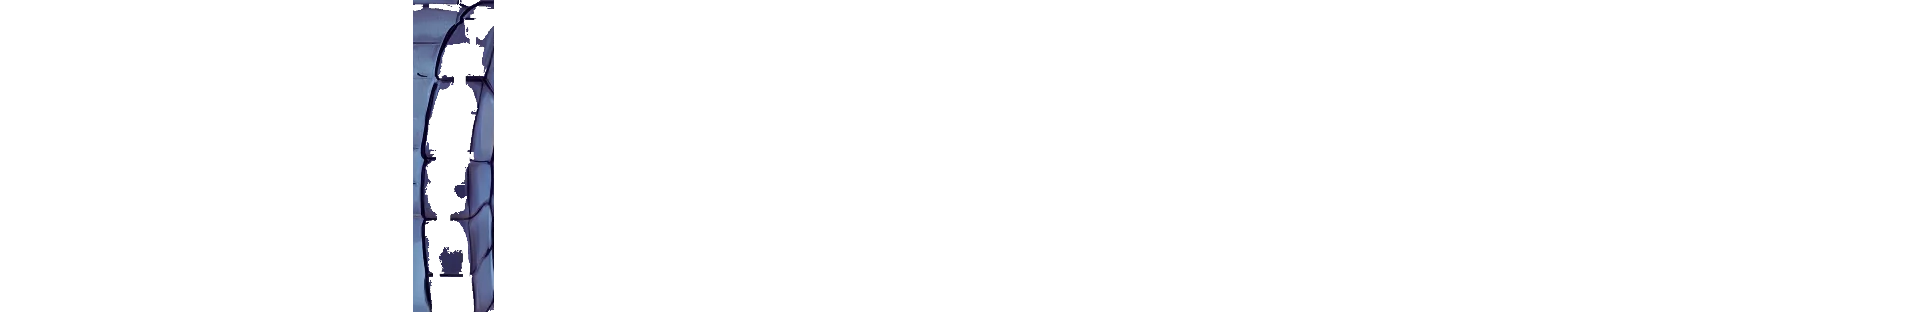
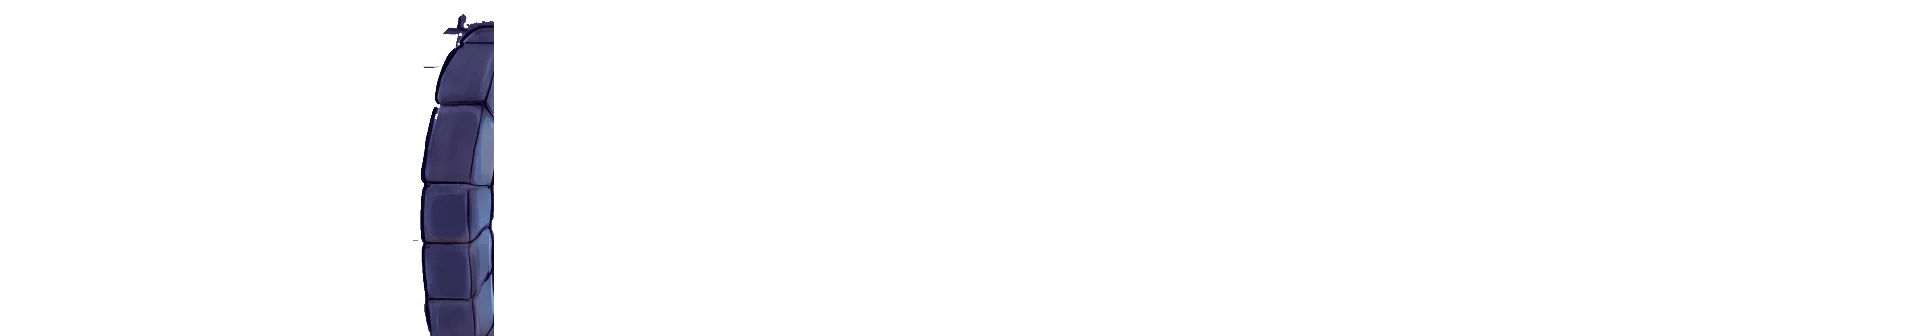
34.3: Cut the storeroom's arch and torches from Gemini's magenta, and open the way down's double door a quarter against its jambs
Five Gemini images (3 and 2 retries, 95 of the chapter's 100):

- storeroom-arch-torches-marked.md: the corridor's arch and the two torches by the store
  door flat magenta. The arch's band and its near jamb are the arch's mask (corridor_arch,
  its box from 4.5 down, row 7, under): a figure on (4, 7) is behind it (77 % covered).
  The plan's "store arch" is this arch, where the owner saw figures over it; the door's own
  arch keeps its mask. The far jamb, right of x 5.15, stays the ground's, so that the
  wizard on (5, 7), in front of its foot, is not drawn behind it.
- storeroom-torches-marked.md (retry): the first edit marked each torch's bracket and
  handle but not its flame; this one marked the flames. Each torch (torch_left,
  torch_right, row 13, under) is the union of the two differences: export_scene takes a
  list of pictures for a static thing's difference, each a part, with a test. A flame
  has no dark outline, so the sweep takes it for ground let in (fringe at 11, 12 and
  11, 13): `kept` names the two torches' boxes. The figure on (11, 13) is behind the
  right torch; (8, 13) is a wall since 34.1.
- way-down-open-quarter.md and -2 (retry), each an edit of the whole base (D161): the
  first left the left leaf half open and laid the right one over its jamb; the second
  turns both a quarter, mirror images, each against the inner side of its own jamb, the
  arch whole between them, and is the one cut. Neither could end the leaves' feet above
[…]

Changed region(s): [[0.1875, 0.0, 0.2812, 1.0]]

diff --git a/app/e2e/levels.spec.ts b/app/e2e/levels.spec.ts
@@ -104,12 +104,11 @@ test.describe('past the teacher', () => {
     await page.keyboard.press('ControlOrMeta+A');
     await page.keyboard.insertText('wizard.wait(3)');
     await page.locator('#run').click();
-    await expect(scene(page)).toHaveAttribute('data-actors', /dask:3,7,right/, {
-      timeout: 10_000,
-    });
-    await expect(scene(page)).toHaveAttribute('data-actors', /dask:5,7,right/, {
-      timeout: 10_000,
-    });
+    // Each tick shows for a moment: looked at often, so that none is missed however
+    // long the run takes to start.
+    const actors = () => scene(page).getAttribute('data-actors');
+    await expect.poll(actors, { intervals: [50], timeout: 10_000 }).toMatch(/dask:3,7,right/);
+    await expect.poll(actors, { intervals: [50], timeout: 10_000 }).toMatch(/dask:5,7,right/);
   });
 
   test('walking straight in gets the wizard caught', async ({ page }) => {

diff --git a/tools/art/export_scene.py b/tools/art/export_scene.py
@@ -422,7 +422,9 @@ def static_alpha(
     on its outline (D93): where Gemini painted it flat magenta in a picture of the
     scene (`"mask": "marked"`, the picture `marked`, among the edits), its holes, the
     lines Gemini left inside it, filled, unless it is `open_work`; the box less that
-    magenta (`"unmarked"`); a polygon in cells (`"polygon"`, less its
+    magenta (`"unmarked"`); where a picture with it gone or painted flat magenta differs
+    from the painting (`"difference"`, D148), or several such pictures, each of a part;
+    a polygon in cells (`"polygon"`, less its
     `holes`, with its `fixed` parts, and only its own line when `lined`); what
     is pale there and its outline (`"pale"`); or the whole box (`"box"`), not
     moved."""
@@ -430,9 +432,14 @@ def static_alpha(
     if thing["mask"] == "box":
         return inside.astype(np.float32)
     if thing["mask"] == "difference":
-        # What a figure walks behind, by the picture with it gone (D148).
-        gone = np.array(Image.open(edits / thing["picture"]).convert("RGB"))
-        mask = difference_mask(gone, painting, box, thing.get("diff"))
+        # What a figure walks behind, by the picture with it gone or marked (D148); a
+        # thing whose parts two edits marked, each one part, a torch's bracket and its
+        # flame, is the union of their differences.
+        pictures = thing["picture"] if isinstance(thing["picture"], list) else [thing["picture"]]
+        mask = np.zeros(painting.shape[:2], dtype=bool)
+        for picture in pictures:
+            gone = np.array(Image.open(edits / picture).convert("RGB"))
+            mask |= difference_mask(gone, painting, box, thing.get("diff"))
         # Gemini's magenta ends inside the thing's outline, which is the thing's too (D93).
         if (thing.get("diff") or {}).get("rim"):
             mask = image_first.rimmed(mask, painting, cell, image_first.thresholds(th)) & inside

diff --git a/tests/tools/test_art.py b/tests/tools/test_art.py
@@ -1674,6 +1674,20 @@ def test_trace_makes_a_static_thing_s_mask_from_the_picture_with_it_gone(tmp_pat
     assert alpha[60:140, 70:130].all() and not alpha[:45].any()
 
 
+def test_a_thing_whose_parts_two_edits_marked_is_the_union_of_their_differences(tmp_path):
+    # A torch: one edit marks its bracket, the other its flame (D148).
+    painting = np.full((200, 200, 3), 120, dtype=np.uint8)
+    bracket, flame = painting.copy(), painting.copy()
+    bracket[100:180, 90:110] = (255, 0, 255)
+    flame[30:100, 80:120] = (255, 0, 255)
+    Image.fromarray(bracket).save(tmp_path / "bracket.png")
+    Image.fromarray(flame).save(tmp_path / "flame.png")
+    torch = {"mask": "difference", "picture": ["bracket.png", "flame.png"], "diff": {}}
+    alpha = export_scene.static_alpha(painting, (0, 0, 200, 200), torch, 200, None, None, tmp_path)
+    assert alpha[110:170, 95:105].all() and alpha[40:90, 90:110].all()
+    assert not alpha[:20].any() and not alpha[:, :60].any()
+
+
 def test_a_state_cut_by_difference_is_read_by_the_export(tmp_path, monkeypatch):
     base = np.full((200, 200, 3), 120, dtype=np.uint8)
     shown = a_leaf_on(base)

diff --git a/tools/art/prompts/way-down-open-quarter.md b/tools/art/prompts/way-down-open-quarter.md
@@ -1,0 +1,13 @@
+---
+candidate: game-way-down
+service: gemini
+model: gemini-3-pro-image
+image: ["art/raw/game-way-down/way-down-base.png", "art/raw/game-way-down/way-down-whole.png"]
+aspect_ratio: 4:3
+image_size: 4K
+---
+Edit the first picture, the whole of it. It is a finished painting, seen from above at an angle, of a stone corridor of a castle at night running up and down the picture, and a third of the way down a stone wall crossing it, seen from the front, with an open arched doorway in a stone arch. The arch's stones run down both sides of the doorway as its two jambs, to the floor. Below that wall the corridor goes on between two side walls, which begin right below the jambs. The second picture is the same painting with the doorway closed by its double wooden door; use it only to see what the two leaves look like.
+
+Make one change only to the first picture: paint in the doorway its two leaves, opened wide, each turned a quarter turn toward us on its hinges, as far as it goes without touching the wall. They are the same two leaves as in the second picture, the same planks, the same iron hinges and the same rings, at their full height, each with its part of the arched top. Each leaf hangs on the inner edge of its own jamb and now stands upright against the inner side of that jamb, almost edge-on to us: the left leaf along the left side of the opening, the right leaf along the right side. Seen from where we look, each leaf is a tall narrow strip of planks, strongly foreshortened, with its free edge a little nearer to us and a little lower than its hinged edge. Its foot stands on the floor inside the doorway, both its bottom corners drawn, above the line where the doorway's floor meets the paving in front of the wall: no part of a leaf reaches below that line, onto the floor in front of the wall. Both leaves lie wholly inside the doorway's opening, between the inner edges of the two jambs: the arch's stones and both jambs stay whole and in view, exactly as in the first picture, and no leaf lies over them or over the side walls below. Between the two leaves almost the whole width of the doorway is open, and through it we see the corridor's floor beyond the wall, running out without a break to the floor in front of it. A soft shadow of each leaf lies on the doorway's floor beside it.
+
+Everything else stays exactly as it is, pixel for pixel: the stone arch and its jambs, every wall, stone, paving stone, banner, torch and flame, the other arches, every room and its furniture, in the same place, at the same size, in the same colours and the same light, in the same painted cartoon style. Do not move, redraw, sharpen or restyle anything. No grid, no text, no people.

diff --git a/tools/art/prompts/way-down-open-quarter-2.md b/tools/art/prompts/way-down-open-quarter-2.md
@@ -1,0 +1,15 @@
+---
+candidate: game-way-down
+service: gemini
+model: gemini-3-pro-image
+image: ["art/raw/game-way-down/way-down-base.png", "art/raw/game-way-down/way-down-whole.png"]
+aspect_ratio: 4:3
+image_size: 4K
+---
+Edit the first picture, the whole of it. It is a finished painting, seen from above at an angle, of a stone corridor of a castle at night running up and down the picture, and a third of the way down a stone wall crossing it, seen from the front, with an open arched doorway in a stone arch. The arch's stones run down both sides of the doorway as its two jambs, to their feet on the floor. Below that wall the corridor goes on between two side walls, which begin right below the jambs. The second picture is the same painting with the doorway closed by its double wooden door; use it only to see what the two leaves look like.
+
+Make one change only to the first picture: the double door stands wide open. Paint its two leaves, the same two leaves as in the second picture, the same planks, the same iron hinges and the same rings, at their full height. Each leaf has turned a quarter turn on its hinges, so that it stands at a right angle to the wall, flat against the inner side of its own jamb; the two leaves are mirror images of each other. Seen from where we look, each leaf is a tall, very narrow strip of planks, no wider than the jamb beside it, standing just inside the opening: the left leaf against the left jamb, the right leaf against the right jamb.
+
+Both leaves stand inside the doorway, on the floor seen through the opening. The foot of each leaf is level with the feet of the jambs, where the jamb stones end at the bottom of the doorway: nothing of a leaf comes lower than the jambs' feet, and nothing of a leaf comes out onto the paving in front of the wall. Nothing of a leaf lies over the jamb stones or the arch's stones, which stay whole and in view exactly as in the first picture. Between the two narrow leaves the whole doorway is open, and through it we see the corridor's floor beyond the wall, running out without a break to the floor in front of it.
+
+Everything else stays exactly as it is, pixel for pixel: the stone arch and its jambs, every wall, stone, paving stone, banner, torch and flame, the other arches, every room and its furniture, in the same place, at the same size, in the same colours and the same light, in the same painted cartoon style. Do not move, redraw, sharpen or restyle anything. No grid, no text, no people.

diff --git a/tools/art/prompts/dormitory-front-door-open-whole.md b/tools/art/prompts/dormitory-front-door-open-whole.md
@@ -1,0 +1,15 @@
+---
+candidate: game-dormitory
+service: gemini
+model: gemini-3-pro-image
+image: art/raw/game-dormitory/dormitory-walls.png
+aspect_ratio: 4:3
+image_size: 4K
+---
+Edit this picture, the whole of it. It is a finished painting, seen from above at an angle, of the first-year dormitory of a castle at night: the common room's wooden floor of long narrow planks running up and down the picture, the beds and the furniture, and at the bottom the room's front wall, seen from the front, with a closed wooden door in a stone arch, and the stone corridor running in front of that wall.
+
+Make one change only: the door in the stone arch of the front wall stands open. Its leaf, the same wooden leaf with the same two black iron strap hinges and the same round ring, at its full height, has swung toward us on its hinges on the left jamb, and stands out from the front wall to the left of the arch: seen foreshortened in the same view from above, its hinged edge on the left jamb, its free edge nearer to us and lower, its foot on the corridor's paving with both its bottom corners drawn, and a soft shadow on the wall and the paving.
+
+Through the open doorway we see the common room's own floor, the floor just behind the front wall: the same long narrow planks as the room's floor seen above the front wall, of the same width, in the same dark warm brown and the same dim light, each plank's line through the doorway continuing a plank's line of the room's floor above the wall, darker under the arch. They run down without a break to the doorway's foot, where they meet the corridor's paving at the line of the wall's foot. The doorway's floor is the room's floor seen through it, not lit by the corridor's torches and not lighter than the room. The stone arch and its jambs stay exactly as they are.
+
+Everything else stays exactly as it is, pixel for pixel: every wall, plank, bed, quilt, chest, candle and flame, torch, window and the sky, the corridor's paving, in the same place, at the same size, in the same colours and the same light, in the same painted cartoon style. Do not move, redraw, sharpen or restyle anything. No grid, no text, no people.

diff --git a/tools/art/prompts/storeroom-arch-torches-marked.md b/tools/art/prompts/storeroom-arch-torches-marked.md
@@ -1,0 +1,19 @@
+---
+candidate: game-storeroom
+service: gemini
+model: gemini-3-pro-image
+image: art/raw/game-storeroom/storeroom-base.png
+aspect_ratio: 4:3
+image_size: 4K
+---
+Edit this picture, a finished painting, seen from above at an angle, of a castle at night: a dark storeroom with a torch-lit corridor coming in from the left through a stone arch, and at its bottom a stone wall seen from the front with an open arched doorway, a burning torch on the wall at each side of that doorway.
+
+Make one change only: paint three things flat magenta, pure bright magenta (red 255, green 0, blue 255), each whole, exactly to its edge, with no shading, no lines and no texture inside the magenta:
+
+- the stone arch at the left of the storeroom, where the corridor comes in: all its arched stones over the opening and both its jambs down to their feet, the band of stones a figure walking through the opening passes under;
+- the torch on the wall to the left of the doorway in the bottom wall: its iron bracket, its cup and its flame;
+- the torch on the wall to the right of that doorway: its iron bracket, its cup and its flame.
+
+The floor seen through the arch's opening is not part of the arch and stays as it is. The doorway's own arch, its door and the glow of the torches on the wall stay as they are.
+
+Redraw nothing. Everything else stays exactly as it is, pixel for pixel: the openings, the walls, every other stone and flagstone, every crate, barrel, cobweb, window, the crack in the right wall, every room and its furniture. No grid, no text, no people.

diff --git a/tools/art/prompts/storeroom-torches-marked.md b/tools/art/prompts/storeroom-torches-marked.md
@@ -1,0 +1,13 @@
+---
+candidate: game-storeroom
+service: gemini
+model: gemini-3-pro-image
+image: art/raw/game-storeroom/storeroom-base.png
+aspect_ratio: 4:3
+image_size: 4K
+---
+Edit this picture, a finished painting, seen from above at an angle, of a castle at night: a dark storeroom, and at its bottom a stone wall seen from the front with an open arched doorway, a burning torch on the wall at each side of that doorway.
+
+Make one change only: paint those two torches flat magenta, pure bright magenta (red 255, green 0, blue 255), each torch whole, from the tip of its flame down to the foot of its bracket: the flame itself, all its tongues of fire and its bright core, the cup the flame burns in, the torch's wooden handle and the iron bracket that holds it to the wall. Each torch is one solid magenta shape, exactly to its edge, with no shading, no lines and no texture inside the magenta. The warm glow the flames throw on the wall round them is not part of the torches and stays as it is.
+
+Redraw nothing. Everything else stays exactly as it is, pixel for pixel: the doorway and its arch, the walls and their stones, every crate, barrel, cobweb, window, every room and its furniture. No grid, no text, no people.

diff --git a/content/art/scenes/the-storeroom/SOURCE.md b/content/art/scenes/the-storeroom/SOURCE.md
@@ -8,5 +8,8 @@ later, like the rest of it.
   (`game-storeroom-nogrid.md`), the round of the castle painted
   (`game-storeroom-voids.md`), the hole in the floor (`game-storeroom-hole.md`).
 - Its base is Gemini's edit without the door (`storeroom-base.md`); the door open is its
-  edit of the base (`storeroom-open.md`), and each leaf the difference (D148). So are the
-  arches, from `storeroom-gone.md`.
+  edit of the base (`storeroom-open.md`), and each leaf the difference (D148). So is the
+  door's arch, from `storeroom-gone.md`; the arch where the corridor comes in and the two
+  torches by the door, from the edits in which Gemini painted them flat magenta
+  (`storeroom-arch-torches-marked.md`, and `storeroom-torches-marked.md` for the
+  torches' flames).

diff --git a/content/art/scenes/the-way-down/SOURCE.md b/content/art/scenes/the-way-down/SOURCE.md
@@ -8,8 +8,8 @@ later, like the rest of it.
   (`game-way-down-nogrid.md`), the round of the castle painted
   (`game-way-down-voids.md`).
 - Its base is Gemini's edit without the door (`way-down-base.md`); the door open, its two
-  leaves half open within the doorway, is its edit of the base
-  (`way-down-open-half-2.md`), and each leaf the difference (D148). So are the
+  leaves turned a quarter, each against the inner side of its own jamb, is its edit of
+  the whole base (`way-down-open-quarter-2.md`), and the leaves the difference (D148). So are the
   arches, from `way-down-arches-marked.md`, in which Gemini painted them flat magenta, and
   the torch beside the hole, from
   `way-down-torch.md`.
